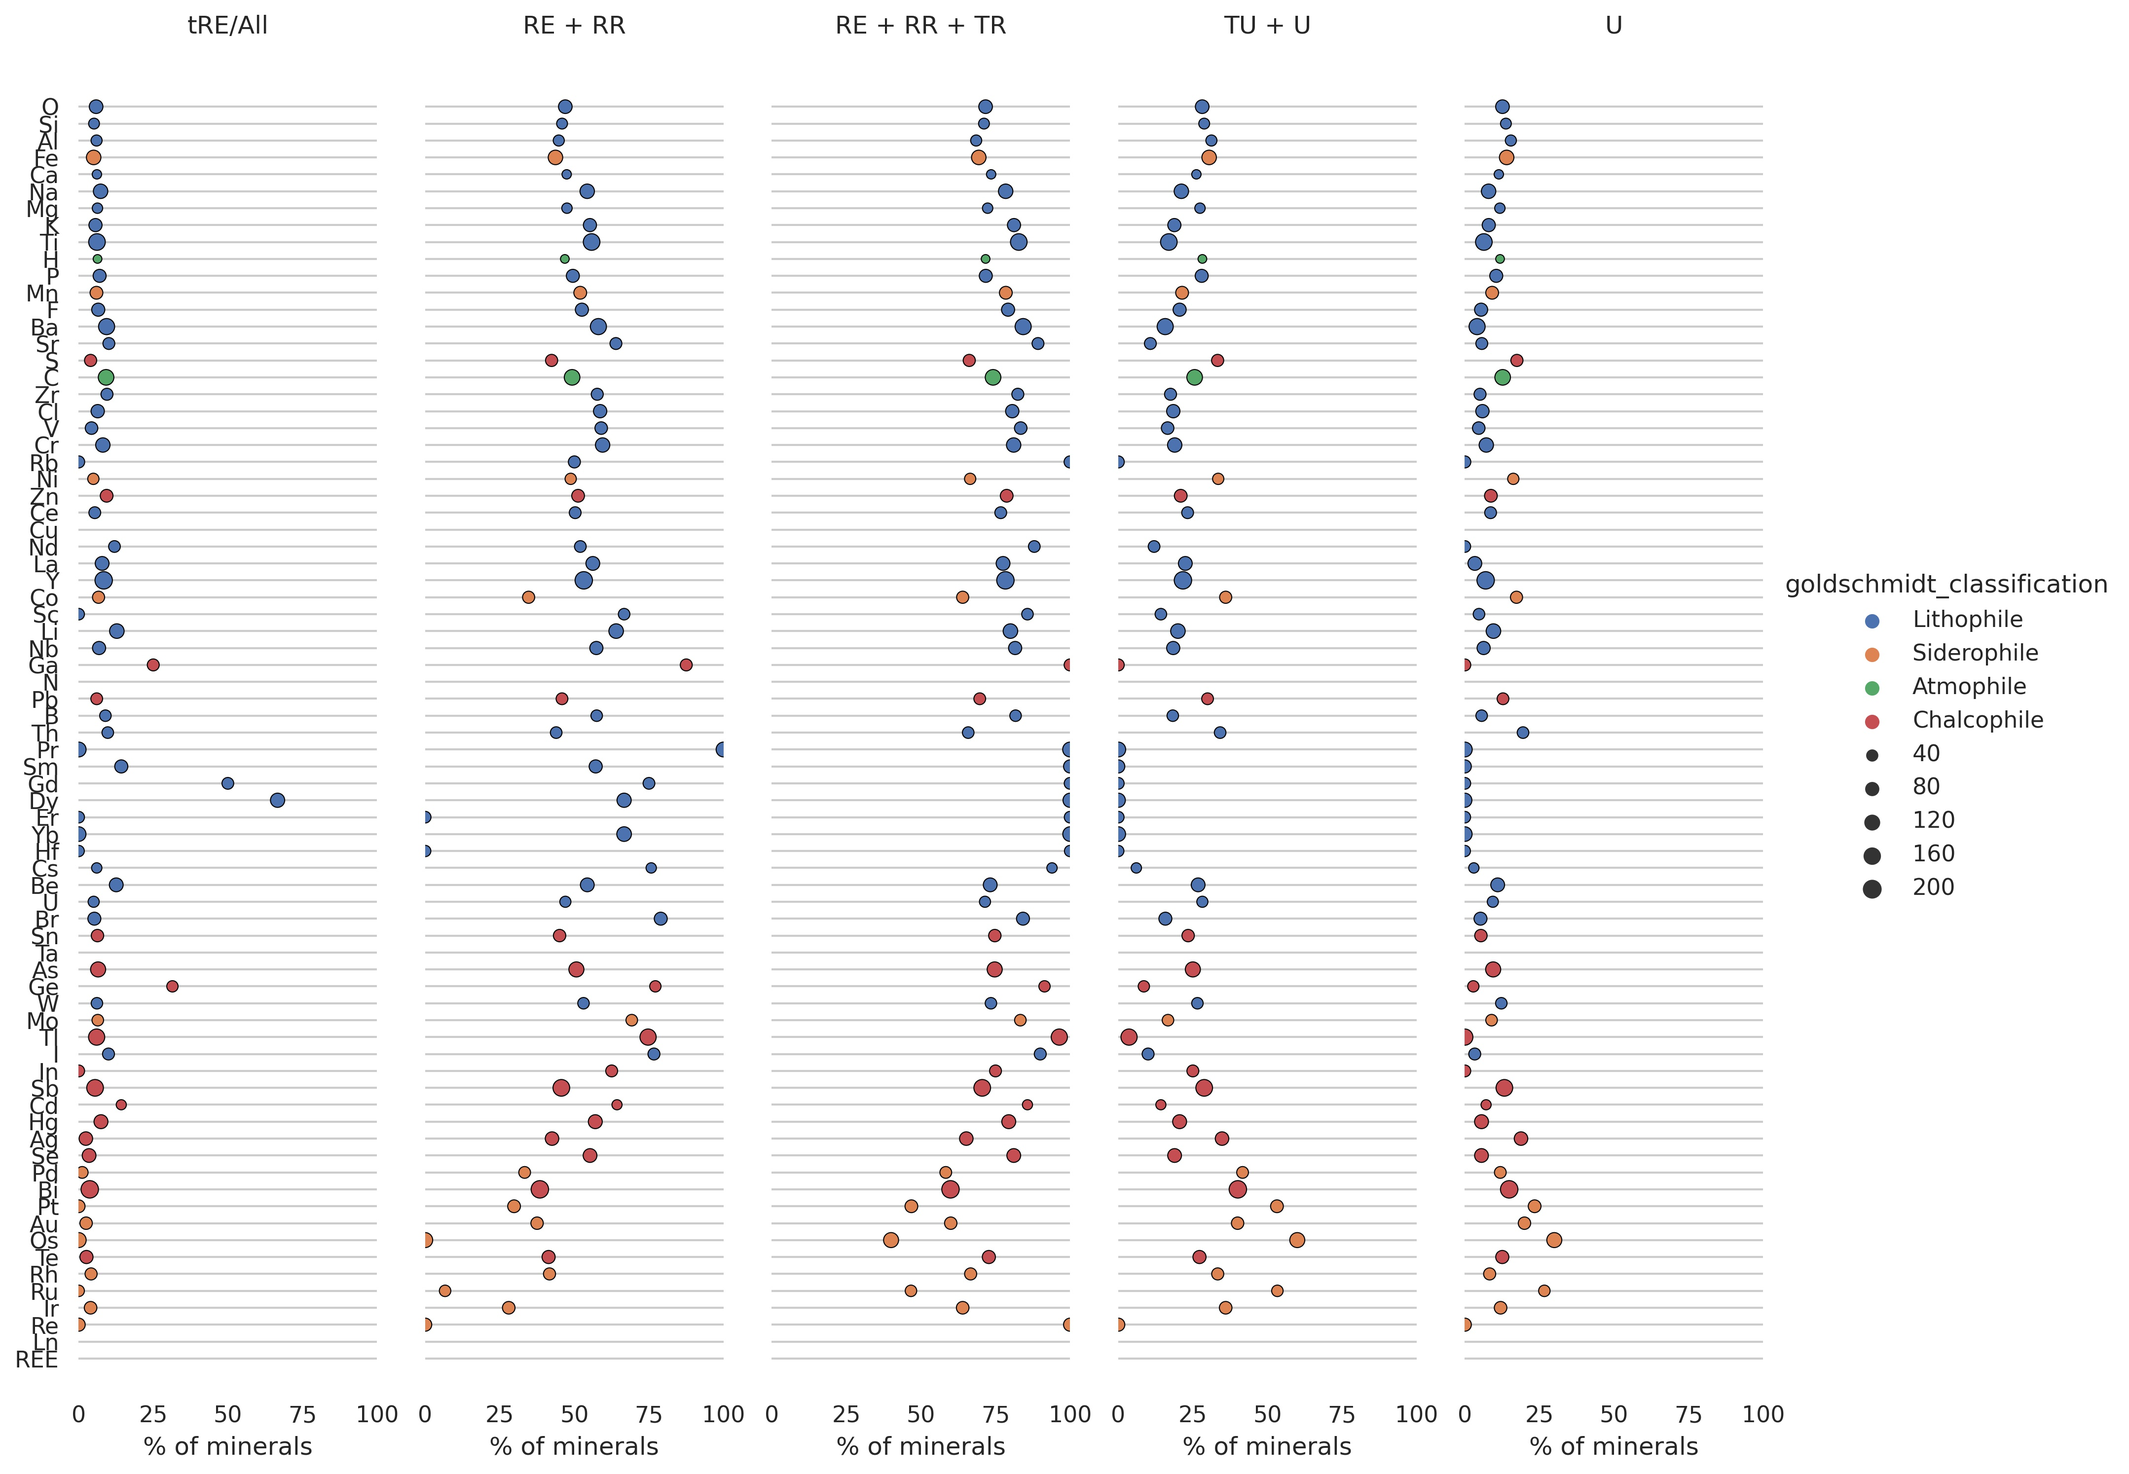
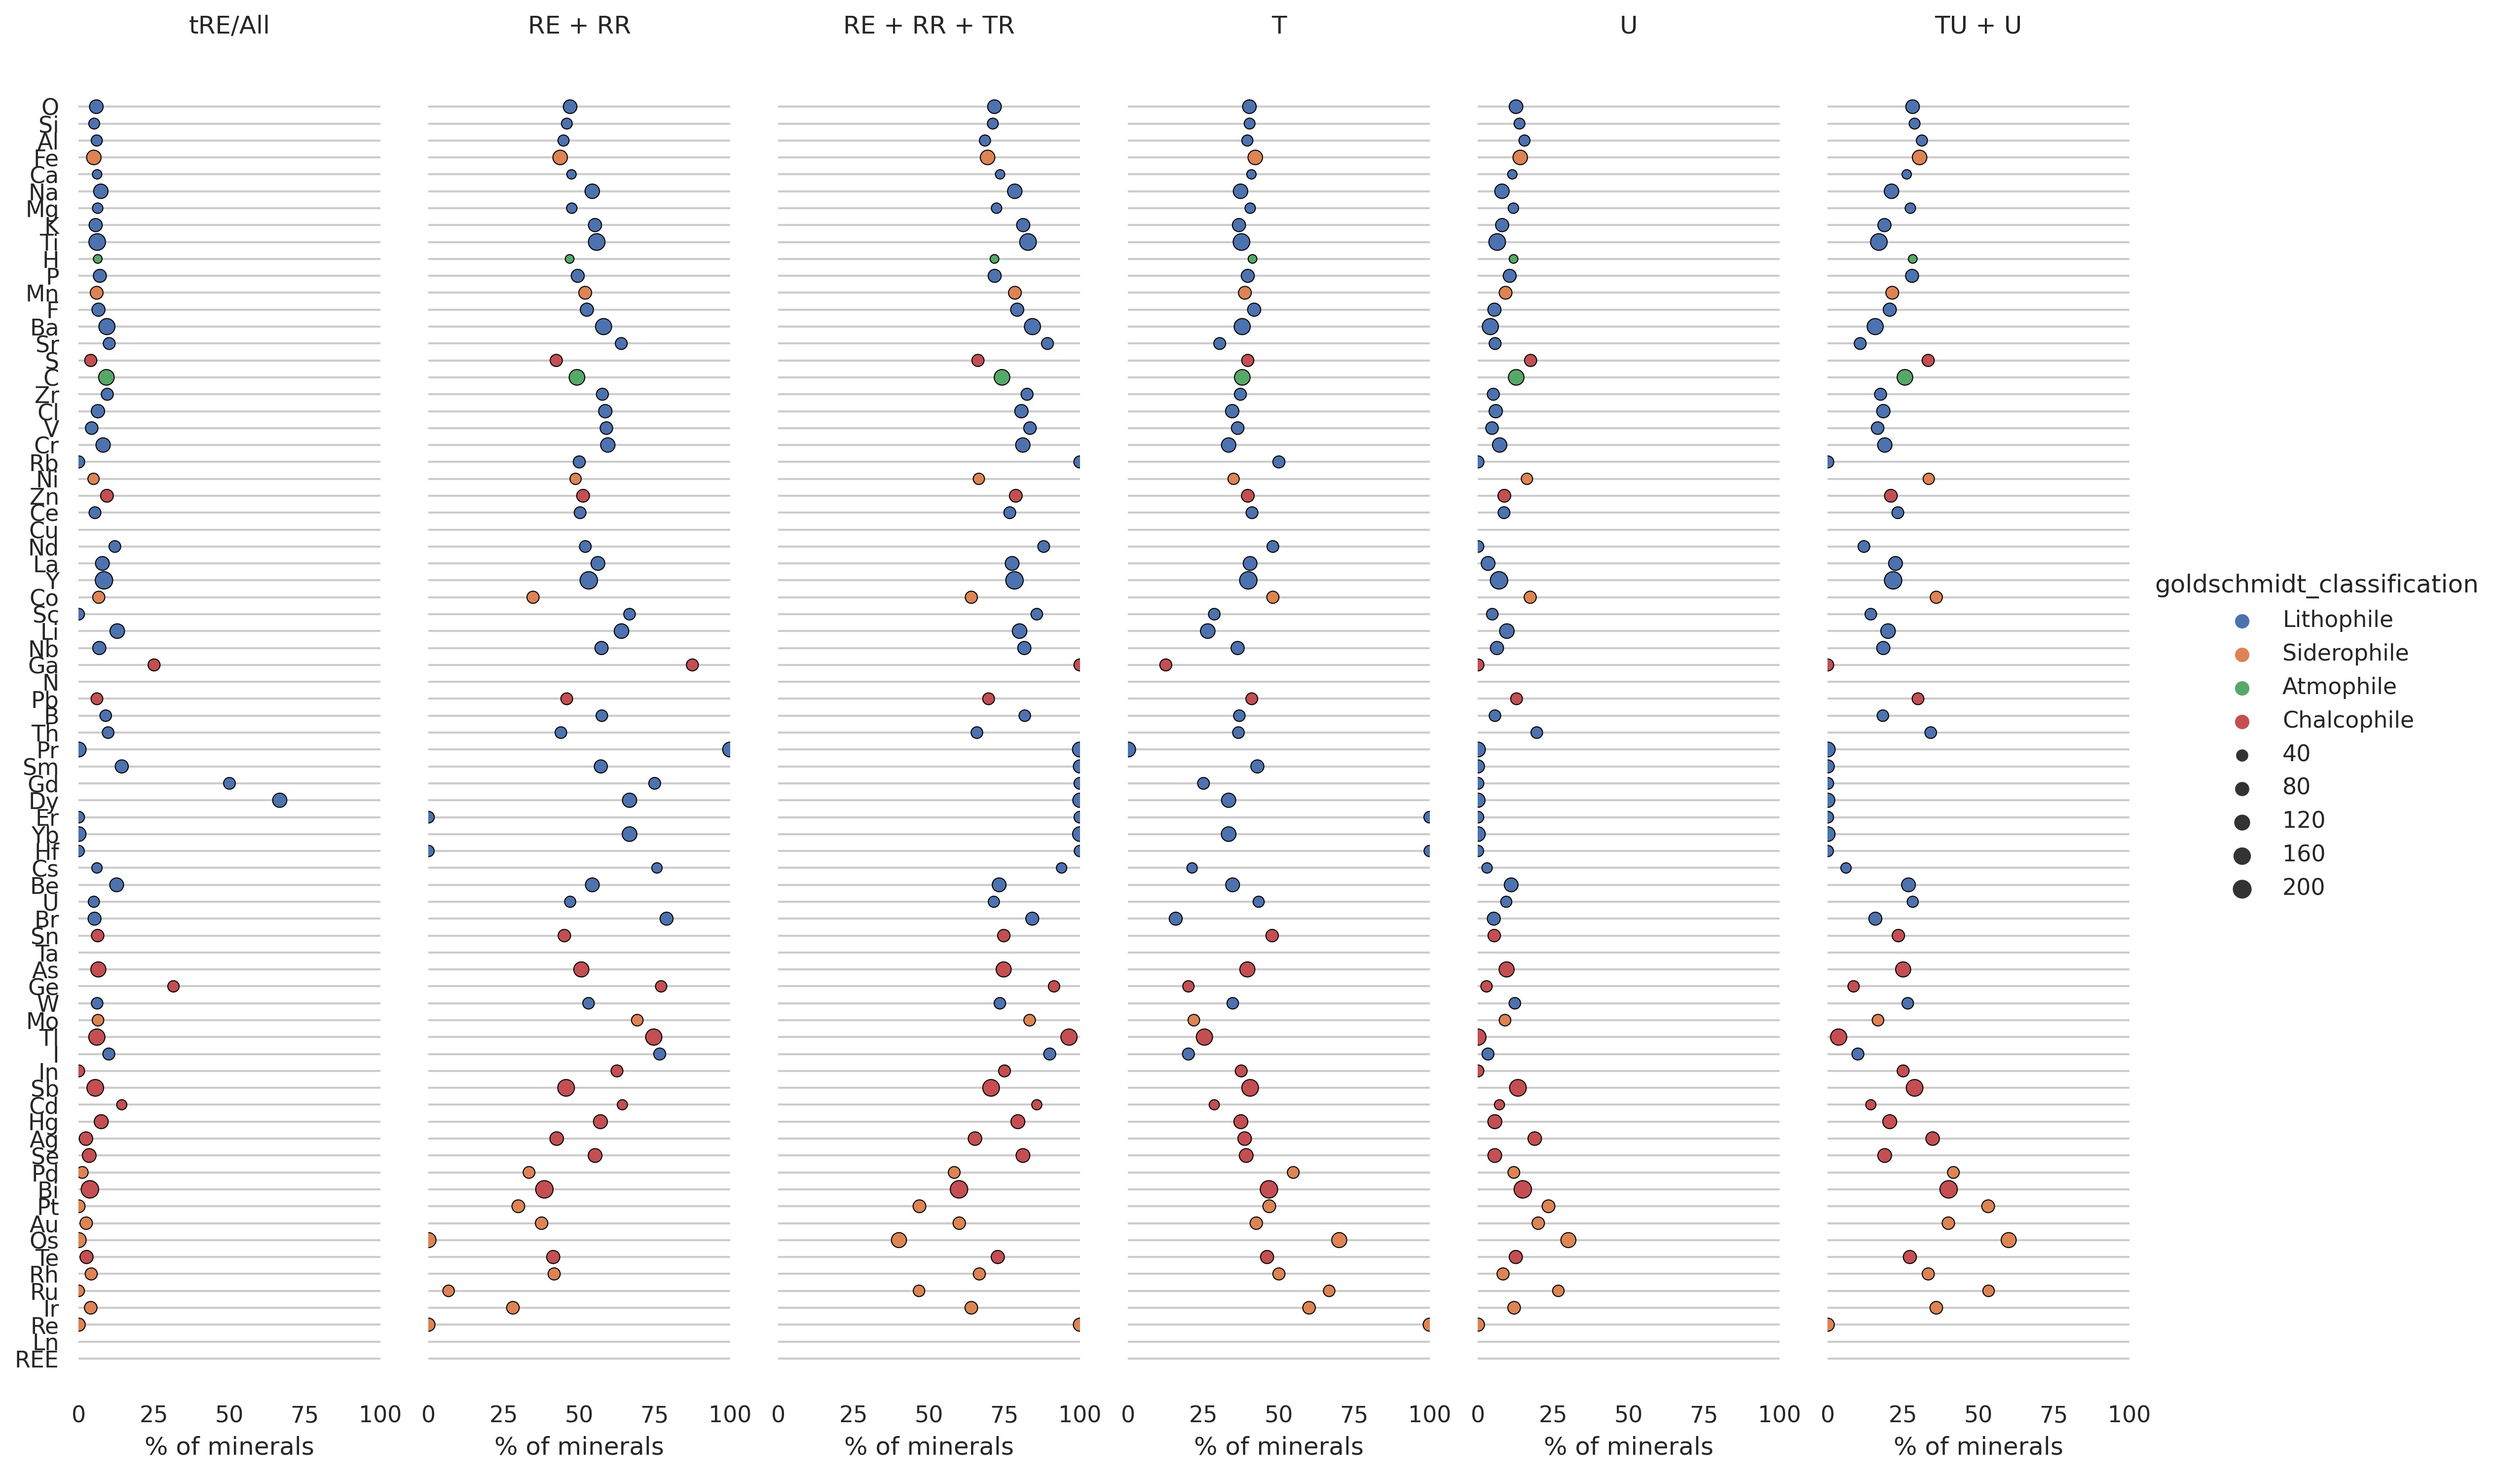
fetch changes

diff --git a/main/compare_chemistry.py b/main/compare_chemistry.py
@@ -259,7 +259,7 @@ sns.set_theme(style="whitegrid")
 
 # Make the PairGrid
 g = sns.PairGrid(data=abundance.sort_values('crust_crc_handbook', ascending=False),
-                 x_vars=['re_true/all', 're + rr/all', 're + rr + tr/all', 'tu + u/all', 'u/all'], y_vars=["Elements"],
+                 x_vars=['re_true/all', 're + rr/all', 're + rr + tr/all', 't/all', 'u/all', 'tu + u/all'], y_vars=["Elements"],
                  hue="goldschmidt_classification", hue_order=None, height=10, aspect=.25)
 
 
@@ -271,7 +271,7 @@ g.add_legend(adjust_subtitles=True)
 g.set(xlim=(0, 100), xlabel="% of minerals", ylabel="")
 
 # Use semantically meaningful titles for the columns
-titles = ['tRE/All', 'RE + RR', 'RE + RR + TR', 'TU + U', 'U']
+titles = ['tRE/All', 'RE + RR', 'RE + RR + TR', 'T', 'U', 'TU + U']
 
 for ax, title in zip(g.axes.flat, titles):
 
@@ -285,3 +285,11 @@ for ax, title in zip(g.axes.flat, titles):
 sns.despine(left=True, bottom=True)
 
 g.savefig(f"figures/chemistry/dot_plot_proportion_from_all.jpeg", dpi=300, format='jpeg')
+
+
+
+# Chalcophile and Siderophile elements, rare in Earth's Crust
+chalc_sidero_el = ['Sn', 'As', 'Ge', 'Mo', 'Tl', 'In', 'Sb', 'Cd', 'Hg', 'Ag', 'Se', 'Pd', 'Bi', 'Pt', 'Au', 'Os', 'Te',
+                   'Rh', 'Ru', 'Ir', 'Re']
+
+abundance.loc[abundance.index.isin(chalc_sidero_el)]['re + rr + tr/all'].median()
